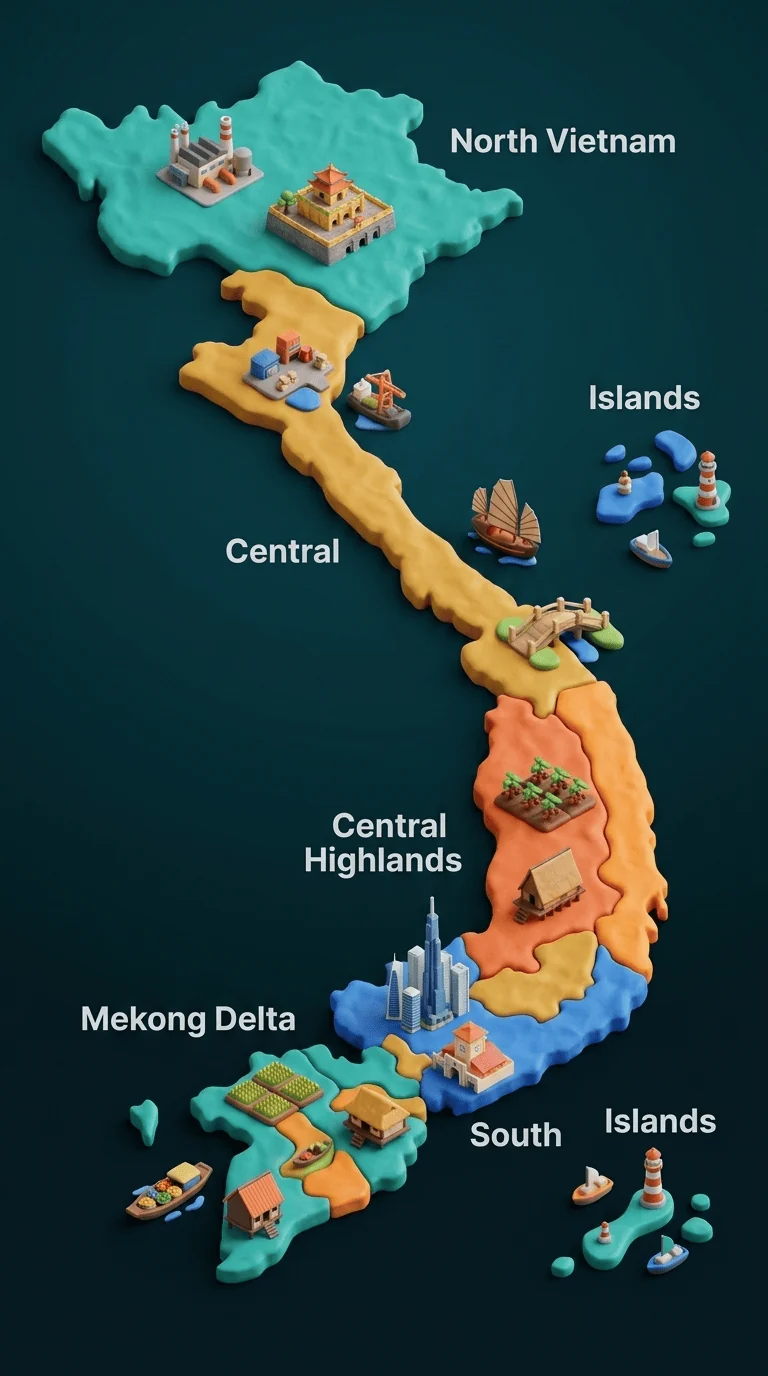
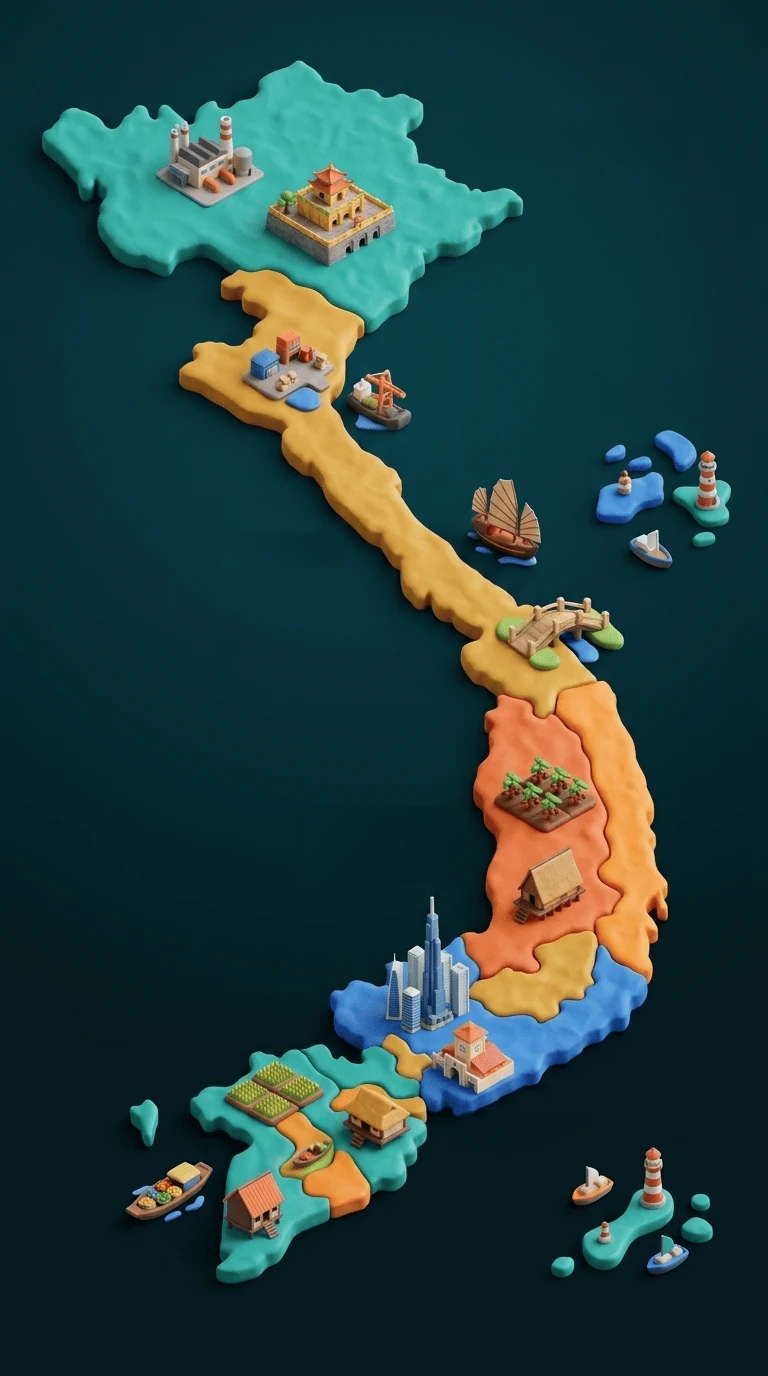
Bản đồ vùng kinh tế: thay chữ tiếng Anh nung trong ảnh bằng nhãn tiếng Việt (#248)
Ảnh arena-vietnam-map có bảy nhãn tiếng Anh nung sẵn: "North Vietnam",
"Central", "Central Highlands", "Mekong Delta", "South", và hai chỗ ghi
"Islands". Chữ nằm trong ảnh nên nút VI/EN không đổi được, trình đọc màn hình
không đọc được, và riêng "Islands" là cách gọi mờ nhạt cho Hoàng Sa – Trường Sa.

Cách làm: xoá chữ khỏi ảnh rồi đặt nhãn bằng CHỮ THẬT chồng lên, thay vì nung
nhãn tiếng Việt mới vào ảnh. Nhờ vậy nhãn đổi theo nút ngôn ngữ, trình đọc màn
hình đọc được, chọn/tìm kiếm được, và phóng to không vỡ nét.

Xoá chữ khỏi ảnh:
  – Dò bảy khối chữ bằng phân tích thành phần liên thông trên mặt nạ điểm
    trắng, rồi gom theo hàng.
  – Vá từng ô bằng cách khớp mặt phẳng màu (bình phương tối thiểu trên x, y
    cho mỗi kênh) từ vành nền rộng 10px quanh ô. Điểm sáng bất thường – thân
    bản đồ, công trình – bị loại khỏi mẫu theo ngưỡng liên tứ phân vị, nên ô
    "South" nằm sát mép bản đồ không còn để lại vệt sáng như cách nội suy
    ngang đơn giản.
  – Nền vốn là dải màu chuyển mượt nên mặt phẳng khớp gần như hoàn hảo.

Đặt nhãn:
  – Toạ độ lấy từ chính vị trí chữ tiếng Anh cũ, quy ra phần trăm khung ảnh.
  – Cỡ chữ theo cqw để nhãn co giãn cùng ảnh chứ không cùng khổ màn hình.
  – Hai nhãn phải dời chỗ vì tiếng Việt dài hơn tiếng Anh: "Nam Bộ" và
    "Trường Sa" ban đầu đè lên nhau. Chọn chỗ mới bằng cách đo độ sáng vùng
    nền để chắc chắn không đè lên thân bản đồ; "Trường Sa" căn phải để không
    chạm mép khung.
[…]

diff --git a/index.html b/index.html
@@ -16,6 +16,21 @@
      nen chu hien dung kieu ca khi offline hoac khi mang truong chan ten mien do. -->
 <link rel="stylesheet" href="css/bizon-fonts.css">
 <style>
+  /* Bản đồ vùng kinh tế: nhãn là chữ thật chồng lên ảnh chứ không nung vào ảnh,
+     nên nút VI/EN đổi được và trình đọc màn hình đọc được. Toạ độ tính theo phần
+     trăm khung nên nhãn bám đúng chỗ ở mọi khổ màn hình. Cỡ chữ theo cqw để nhãn
+     co giãn cùng ảnh thay vì cùng khổ màn hình. */
+  .vn-map { position:relative; container-type:inline-size; }
+  .vn-map__lb {
+    position:absolute; transform:translate(-50%,-50%); text-align:center;
+    font-family:'Manrope','Manrope Fallback',sans-serif; font-weight:800;
+    font-size:clamp(9px, 4.6cqw, 15px); line-height:1.15; color:#fff;
+    text-shadow:0 1px 3px rgba(0,0,0,.65), 0 0 10px rgba(0,0,0,.45);
+    pointer-events:none; white-space:nowrap;
+  }
+  .vn-map__lb--wide { white-space:normal; width:34cqw; }
+  .vn-map__lb--right { transform:translate(-100%,-50%); }
+  .vn-map__lb--sea { font-style:italic; letter-spacing:.01em; }
   html { background:#f4faff; scroll-behavior:smooth; }
   body { font-family:'Manrope', 'Manrope Fallback',sans-serif; background:transparent; color:#033337; overflow-x:hidden; }
   .clay-card { background:#fff; border-radius:24px; box-shadow:0 10px 30px -5px rgba(0,102,135,.08), inset 0 -4px 0 rgba(0,0,0,.05); }
@@ -208,10 +223,17 @@
     <h2 class="font-display font-extrabold text-deep-teal text-xl text-center">🗺 Hành trình chinh phục Việt Nam</h2>
     <p class="text-xs text-deep-teal/55 text-center mt-1.5 max-w-2xl mx-auto">Sáu vòng, sáu vùng kinh tế. Thắng thị phần vòng nào thì cắm cờ doanh nghiệp lên vùng đó – từ Cần Thơ ngược ra Hà Nội. Đây đúng là tấm bản đồ hiện trong ván chơi.</p>
     <div class="grid sm:grid-cols-2 gap-6 items-center mt-5">
-      <figure class="max-w-xs w-full mx-auto">
+      <figure class="vn-map max-w-xs w-full mx-auto">
         <img src="assets/illustrations/arena-vietnam-map.webp" width="768" height="1376" loading="lazy" decoding="async"
              class="w-full h-auto rounded-2xl shadow-xl"
-             alt="Bản đồ đất sét ba chiều của Việt Nam: miền Bắc, miền Trung, Tây Nguyên, Nam Bộ và đồng bằng sông Cửu Long, kèm hai quần đảo Hoàng Sa và Trường Sa ngoài khơi.">
+             alt="Bản đồ đất sét ba chiều của Việt Nam chia theo vùng kinh tế, kèm hai quần đảo Hoàng Sa và Trường Sa ngoài khơi.">
+        <span class="vn-map__lb" style="left:73.3%; top:10.2%">Miền Bắc</span>
+        <span class="vn-map__lb vn-map__lb--sea" style="left:84.0%; top:28.9%">Hoàng Sa</span>
+        <span class="vn-map__lb" style="left:36.8%; top:40.0%">Miền Trung</span>
+        <span class="vn-map__lb" style="left:49.9%; top:61.4%">Tây Nguyên</span>
+        <span class="vn-map__lb vn-map__lb--wide" style="left:24.5%; top:74.3%">Đồng bằng sông Cửu Long</span>
+        <span class="vn-map__lb" style="left:60.0%; top:86.0%">Nam Bộ</span>
+        <span class="vn-map__lb vn-map__lb--sea vn-map__lb--right" style="left:97.0%; top:81.0%">Trường Sa</span>
       </figure>
       <ol class="space-y-2.5 text-sm">
         <li class="flex items-baseline gap-2"><b class="font-display font-extrabold text-primary shrink-0">V1</b><span class="font-bold text-deep-teal">Cần Thơ</span><span class="text-[10px] text-deep-teal/45 ml-auto text-right">Đồng bằng sông Cửu Long</span></li>

diff --git a/js/site-ui.js b/js/site-ui.js
@@ -3935,6 +3935,34 @@
 "🎮 Vào chơi sáu vòng →",
 "🎮 Play the six rounds →"
 ],
+[
+"Miền Bắc",
+"Northern Vietnam"
+],
+[
+"Miền Trung",
+"Central Vietnam"
+],
+[
+"Tây Nguyên",
+"Central Highlands"
+],
+[
+"Nam Bộ",
+"Southern Vietnam"
+],
+[
+"Hoàng Sa",
+"Hoàng Sa"
+],
+[
+"Trường Sa",
+"Trường Sa"
+],
+[
+"Bản đồ đất sét ba chiều của Việt Nam chia theo vùng kinh tế, kèm hai quần đảo Hoàng Sa và Trường Sa ngoài khơi.",
+"Three-dimensional clay map of Vietnam divided by economic region, with the Hoàng Sa and Trường Sa archipelagos offshore."
+],
 ]);
   var SPECIAL = [
     { page: 'giai-phap', sel: '#gp-oss-note', en: "Free to use at the official URL for non-commercial teaching – no account needed. The source is published for academic transparency and verification; commercial exploitation rights remain with BizOn (see <a href=\"https://github.com/thuyhuongctu/BizOn/blob/main/LICENSE\" target=\"_blank\" rel=\"noopener\" class=\"underline font-bold\">LICENSE</a>)." },

diff --git a/js/error-log.js b/js/error-log.js
@@ -8,7 +8,7 @@
  * Tắt backend (enabled=false) là tắt luôn giám sát lỗi. */
 (function () {
   const QKEY = 'bizon-error-queue';
-  const APP_VER = 'bizon-v217'; // khớp CACHE trong sw.js – biết lỗi thuộc phiên bản nào
+  const APP_VER = 'bizon-v218'; // khớp CACHE trong sw.js – biết lỗi thuộc phiên bản nào
   const MAX_PER_LOAD = 5;       // chống bão lỗi lặp: tối đa 5 bản ghi mỗi lượt tải trang
   let sent = 0;
   const seen = new Set();

diff --git a/sw.js b/sw.js
@@ -1,7 +1,7 @@
 /* BizOn Bật Nghiệp 2026 – Service Worker (offline app shell)
  * © 2026 Đỗ Thùy Hương & Phan Anh Tú. Bảo lưu mọi quyền. */
 
-const CACHE = 'bizon-v217';
+const CACHE = 'bizon-v218';
 const SHELL = [
   './',
   './index.html',
